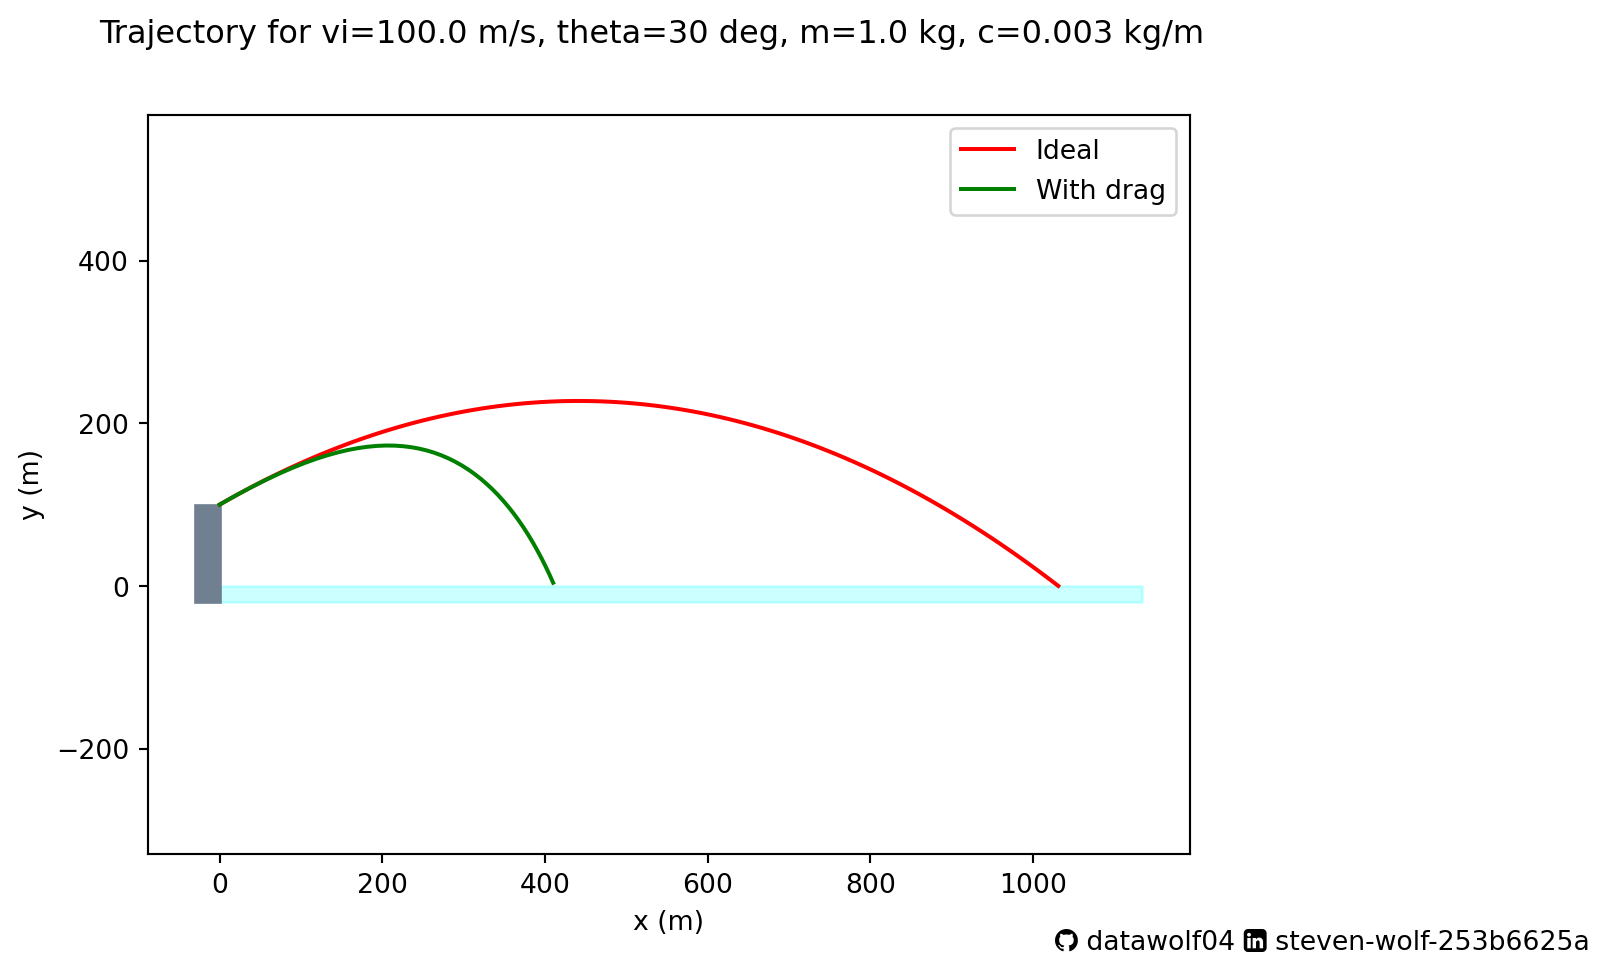
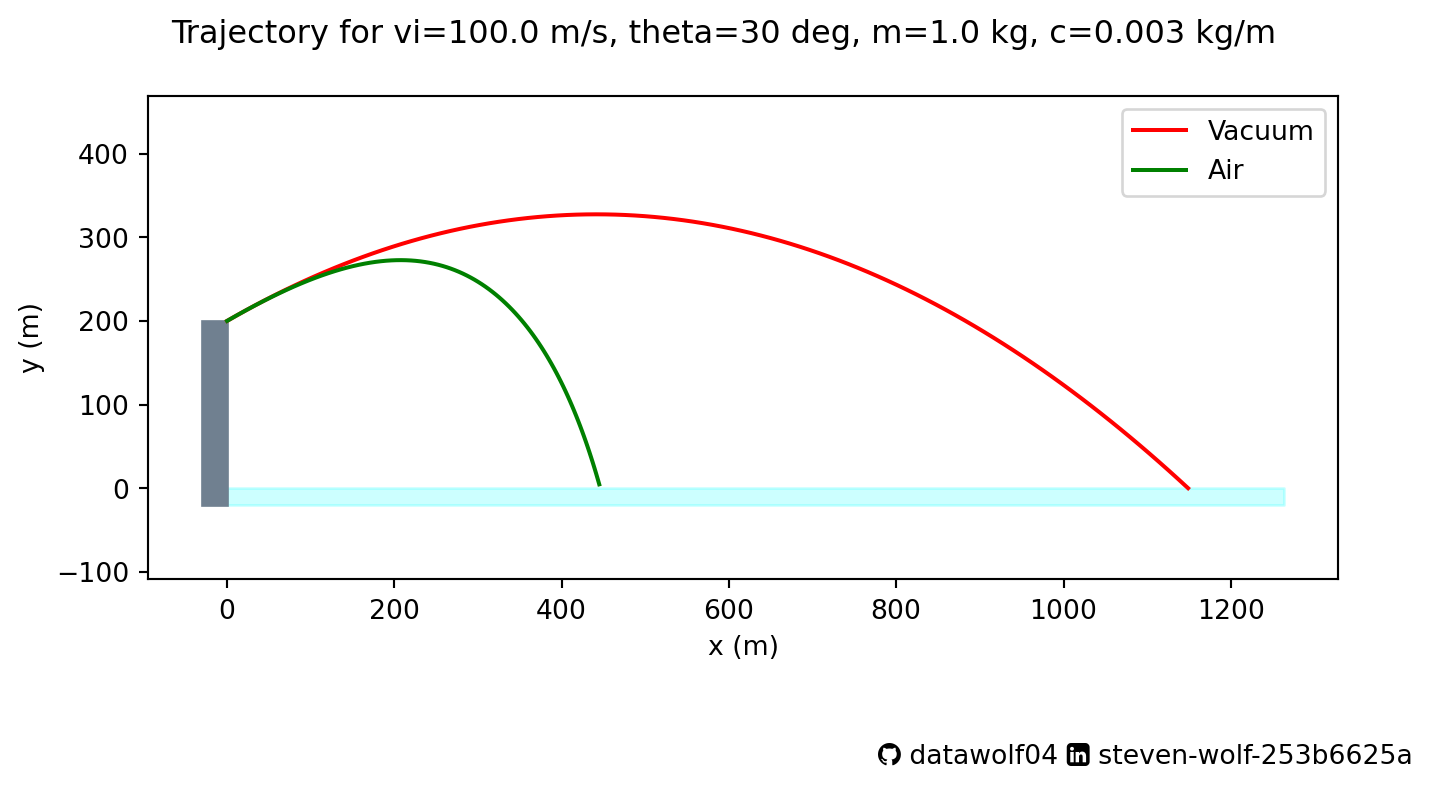
Wrapped up projectile motion post.

diff --git a/posts/projectileMotion/projectile.py b/posts/projectileMotion/projectile.py
@@ -111,8 +111,8 @@ class dragProjectile:
   '''
   def __init__(self, vLaunchMag, vLaunchDir, height, mass, dragCoef):
     model = dragEOM(vLaunchMag, vLaunchDir, height, mass, dragCoef)
-    tMax = 2 * model.idealTof
-    tVals = np.linspace(0,tMax,100)
+    tMax = 10 * model.idealTof
+    tVals = np.linspace(0,tMax,1000)
     u0 = model.u0
     sol = solve_ivp(model, t_span=[0,tMax], y0 = u0, t_eval=tVals, events=model.splash, dense_output=True)
     self.tof = sol.t_events[0][0]
@@ -143,10 +143,10 @@ def makeTrajectoryPlot(vi,theta,h,m,c):
   x, y = pos(tt)
   maxY = np.max((np.max(y),np.max(rCan.y)))
   maxX =  1.1* np.max((np.max(x),np.max(rCan.x)))
-  fig, ax = plt.subplots()
+  fig, ax = plt.subplots(figsize=(8,4))
   
-  ax.plot(x,y,'r',label='Ideal')
-  ax.plot(rCan.x,rCan.y,'g',label='With drag')
+  ax.plot(x,y,'r',label='Vacuum')
+  ax.plot(rCan.x,rCan.y,'g',label='Air')
   ax.axis('equal')
   ax.set_xlabel('x (m)')
   ax.set_ylabel('y (m)')
@@ -157,7 +157,8 @@ def makeTrajectoryPlot(vi,theta,h,m,c):
   ax.add_patch(Rectangle((-30,-20),30,y[0]+20, color='slategrey'))
   fig.suptitle(pltTitle)
   ax.legend()
-  plt.figtext(0.8,0.01, txt,family=['DejaVu Sans','FontAwesome'],fontsize=10)
+  fig.subplots_adjust(right=0.9,bottom=0.25)
+  plt.figtext(0.6,0.01, txt,family=['DejaVu Sans','FontAwesome'],fontsize=10)
   plt.show()
     
 def plotCannonCurves(vi,theta,h,m,c):
@@ -184,7 +185,7 @@ def plotCannonCurves(vi,theta,h,m,c):
   
   pltTitle = f'Cannon fired at {float(theta):.0f} deg'
 
-  fig, axs = plt.subplots(3,2, sharex=True, sharey='row',figsize=(5,7))
+  fig, axs = plt.subplots(3,2, sharex=True, sharey='row',figsize=(8,10))
   axs[0,0].plot(timeI,x,label='vacuum')
   axs[0,0].plot(rCan.t,rCan.x,label='air')
   axs[0,0].set_ylabel(r'position $(m)$')
@@ -208,6 +209,6 @@ def plotCannonCurves(vi,theta,h,m,c):
   for i in range(3):
     for j in range(2):
       axs[i,j].legend()
-  plt.figtext(0.8,0.01, txt,family=['DejaVu Sans','FontAwesome'],fontsize=10)
+  plt.figtext(0.6,0.01, txt,family=['DejaVu Sans','FontAwesome'],fontsize=10)
   plt.show()
 
